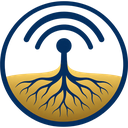
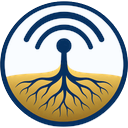
Hold the page to its light palette under forced dark mode; cap the hero
Phones running a browser's automatic dark theme were repainting the
page near-black. The site has no dark palette, and its emblem and
wordmark are navy on a transparent ground, so they disappeared into the
forced background. The pages now declare color-scheme "only light",
which is the documented opt-out from that repainting, and the header
emblem, favicons, and About lockup carry a light plate baked into the
image — invisible in light mode, and a floor for the navy when a
browser darkens the page regardless.

The hero, which took its height from the image ratio, reached 685px on
a 1900px display; it is now capped at 500px and the title at 72px.

Claude-Session: https://claude.ai/code/session_01GNcS1kmZvkTUuwnAtVXsAb

diff --git a/index.html b/index.html
@@ -1,18 +1,18 @@
 <!doctype html>
 <html lang="en">
 <head>
-  <meta charset="utf-8">
+  <meta charset="utf-8"><meta name="color-scheme" content="only light">
   <meta name="viewport" content="width=device-width,initial-scale=1">
   <meta property="og:title" content="ROOT Lab — Root of Trust from the Physical Layer"><meta property="og:image" content="https://root-jylee.github.io/assets/img/og-image.png"><meta name="description" content="ROOT Lab (보안통신 연구실), The Catholic University of Korea — Root of Trust from the Physical Layer · Physical Layer Security for Communication Systems">
   <link rel="icon" type="image/png" sizes="32x32" href="assets/img/favicon-32.png"><link rel="icon" type="image/png" sizes="64x64" href="assets/img/favicon-64.png"><link rel="apple-touch-icon" href="assets/img/apple-touch-icon.png"><title>ROOT Lab — Root of Trust from the Physical Layer</title>
-  <link rel="stylesheet" href="styles.css?v=20260908-lm11">
+  <link rel="stylesheet" href="styles.css?v=20260908-lm12">
   <style>
-    .home-hero{position:relative;overflow:hidden;background:#061629;color:#fff;padding:0;min-height:0;aspect-ratio:2079/756;display:flex;align-items:center}
+    .home-hero{position:relative;overflow:hidden;background:#061629;color:#fff;padding:0;min-height:0;aspect-ratio:2079/756;max-height:500px;display:flex;align-items:center}
     .home-hero:before{content:"";position:absolute;inset:0;background:linear-gradient(90deg,rgba(4,17,34,.97) 0%,rgba(4,17,34,.92) 21%,rgba(4,17,34,.62) 38%,rgba(4,17,34,.18) 58%,rgba(4,17,34,.03) 100%);z-index:1;mask-image:none}
     .home-hero:after{content:"";position:absolute;inset:0;background:url('assets/img/root-hero3-1920.jpg') center center/cover no-repeat;z-index:0}
     .home-hero .hero-grid{position:relative;z-index:2;width:min(1180px,calc(100% - 48px));margin:auto;display:block}
     .hero-copy{max-width:min(560px,60%);padding:clamp(24px,3.5vw,56px) 0}
-    .home-hero h1{margin:0 0 .18em;font:600 clamp(38px,5.4vw,84px)/.96 var(--serif);letter-spacing:-.055em;text-shadow:0 3px 24px rgba(0,0,0,.28)}
+    .home-hero h1{margin:0 0 .18em;font:600 clamp(38px,5vw,72px)/.96 var(--serif);letter-spacing:-.055em;text-shadow:0 3px 24px rgba(0,0,0,.28)}
     .home-hero .lab-name{margin:0;max-width:520px;color:#eef5ff;font-size:clamp(17px,2vw,30px);line-height:1.35;font-weight:650}
     .home-hero .lab-name .rootmark{color:#a8d3e2}
     .home-hero .actions{margin-top:clamp(16px,2vw,28px)}
@@ -52,7 +52,7 @@
   <section class="about-section" id="about">
     <div class="wrap">
       <div class="section-label-row"><h2 class="section-title">About · 연구실 소개</h2></div>
-      <img class="about-lockup" src="assets/img/lockup2-1200.png" alt="ROOT Lab — Root of Trust from the Physical Layer" width="520" height="140">
+      <img class="about-lockup" src="assets/img/lockup2-1200.png" alt="ROOT Lab — Root of Trust from the Physical Layer" width="560" height="169">
       <div class="about-grid">
         <div><h3>보안통신 연구실</h3><p>ROOT Lab은 가톨릭대학교 정보통신전자공학부의 보안통신 연구실로, 통신시스템의 물리계층보안(Physical Layer Security)을 연구합니다. 채널·디바이스·기하·움직임·환경이 수신 신호에 남기는 물리적·통계적 특성을 활용하여 은닉통신, 물리계층 인증, 물리계층 키 생성, 물리계층 기반 차등 프라이버시를 연구합니다.</p></div>
         <div><h3>ROOT Lab</h3><p>ROOT Lab studies how the physical and statistical structure of communication systems can be exploited or controlled to establish security. Channel randomness, device-specific impairments, geometry and mobility, interference, and channel noise all leave traces on received signals; we turn those traces into covert communication, physical-layer authentication, physical-layer key generation, and physical-layer-aided differential privacy.</p></div>

diff --git a/members.html b/members.html
@@ -1,4 +1,4 @@
-<!doctype html><html lang="en"><head><meta charset="utf-8"><meta name="viewport" content="width=device-width,initial-scale=1"><link rel="icon" type="image/png" sizes="32x32" href="assets/img/favicon-32.png"><link rel="icon" type="image/png" sizes="64x64" href="assets/img/favicon-64.png"><link rel="apple-touch-icon" href="assets/img/apple-touch-icon.png"><title>Members — ROOT Lab</title><link rel="stylesheet" href="styles.css?v=20260908-lm11"></head><body>
+<!doctype html><html lang="en"><head><meta charset="utf-8"><meta name="color-scheme" content="only light"><meta name="viewport" content="width=device-width,initial-scale=1"><link rel="icon" type="image/png" sizes="32x32" href="assets/img/favicon-32.png"><link rel="icon" type="image/png" sizes="64x64" href="assets/img/favicon-64.png"><link rel="apple-touch-icon" href="assets/img/apple-touch-icon.png"><title>Members — ROOT Lab</title><link rel="stylesheet" href="styles.css?v=20260908-lm12"></head><body>
 <header><div class="wrap nav"><a class="brand" href="index.html"><img class="mark-img" src="assets/img/emblem-128.png" alt="" width="38" height="38"><span>ROOT Lab</span></a><nav class="links"><a href="index.html">Home</a><a href="research.html">Research</a><a href="publications.html">Publications</a><a class="active" href="members.html">Members</a><a href="projects.html">Projects</a><a href="gallery.html">Gallery</a><a href="contact.html">Contact</a></nav></div></header>
 <main><div class="page-hero"><div class="wrap"><h1 class="page-title">Members</h1><p>Researchers and collaborators</p></div></div>
 <section><div class="wrap"><article class="pi-card"><div class="portrait"><img src="https://raw.githubusercontent.com/dicomm-lab/dicomm-lab.github.io/4d47364a9142f6581e8320790798c73f6509b5fd/images/PI.jpg" alt="Jinyoung Lee"></div><div><h2>Jinyoung Lee <small style="font:500 18px var(--sans);color:var(--muted)">(이진영)</small></h2><p class="pi-role">Assistant Professor · Department of Information, Communications and Electronic Engineering, The Catholic University of Korea</p><p><a style="color:var(--blue);font-weight:700" href="mailto:jylee120@catholic.ac.kr">jylee120@catholic.ac.kr</a> · <a style="color:var(--blue);font-weight:700" href="https://scholar.google.co.kr/citations?user=w1z7ySEAAAAJ&hl=en">Google Scholar</a></p><div class="pi-meta"><div><h3>Education</h3><p>Ph.D., Electrical Engineering, KAIST, 2023<br>M.S., EECS, GIST, 2018<br>B.S., Electronics & Communications Engineering, Kwangwoon University, 2016</p></div><div><h3>Professional experience</h3><p>2026– Assistant Professor, The Catholic University of Korea<br>2025–2026 Assistant Professor, National Korea Maritime &amp; Ocean University<br>2023–2025 Staff Engineer, Samsung Electronics<br>2019–2020 Visiting Researcher, Queen&rsquo;s University, Canada</p></div></div></div></article></div></section>

diff --git a/styles.css b/styles.css
@@ -3,7 +3,7 @@
 @font-face{font-family:"Latin Modern";font-style:italic;font-weight:400;font-display:swap;src:url("assets/fonts/LM-italic.woff2") format("woff2")}
 @font-face{font-family:"Latin Modern";font-style:normal;font-weight:700;font-display:swap;src:url("assets/fonts/LM-bold.woff2") format("woff2")}
 @font-face{font-family:"Latin Modern";font-style:italic;font-weight:700;font-display:swap;src:url("assets/fonts/LM-bold-italic.woff2") format("woff2")}
-:root{--ink:#10213b;--navy:#081a2c;--blue:#3f6fa8;--cyan:#8fc4d7;--lime:#b8c6d9;--paper:#f4f7fb;--muted:#65758a;--line:#dbe3ec;--white:#f9fcff;--serif:"Latin Modern",Pretendard,"Noto Sans KR","Apple SD Gothic Neo",Georgia,serif;--sans:"Latin Modern",Pretendard,"Noto Sans KR","Apple SD Gothic Neo",Georgia,serif}
+:root{color-scheme:only light;--ink:#10213b;--navy:#081a2c;--blue:#3f6fa8;--cyan:#8fc4d7;--lime:#b8c6d9;--paper:#f4f7fb;--muted:#65758a;--line:#dbe3ec;--white:#f9fcff;--serif:"Latin Modern",Pretendard,"Noto Sans KR","Apple SD Gothic Neo",Georgia,serif;--sans:"Latin Modern",Pretendard,"Noto Sans KR","Apple SD Gothic Neo",Georgia,serif}
 *{box-sizing:border-box}html{scroll-behavior:smooth}body{display:flex;min-height:100vh;margin:0;flex-direction:column;color:var(--ink);font-family:var(--sans);background:var(--white);line-height:1.65}main{flex:1}a{color:inherit;text-decoration:none}.wrap{width:min(1180px,calc(100% - 48px));margin:auto}.topline{height:4px;background:linear-gradient(90deg,var(--blue),var(--cyan) 45%,var(--lime))}
 header{position:sticky;top:0;z-index:20;background:rgba(249,252,255,.95);backdrop-filter:blur(14px);border-bottom:1px solid rgba(11,25,48,.08)}.nav{min-height:76px;display:flex;align-items:center;justify-content:space-between;gap:28px}.brand{display:flex;align-items:center;gap:12px;font-weight:800;letter-spacing:-.03em}.mark{display:grid;place-items:center;width:38px;height:38px;border-radius:11px;background:var(--navy);color:var(--cyan);font:600 20px var(--serif)}.brand small{display:block;color:var(--muted);font-size:10px;letter-spacing:.12em;text-transform:uppercase}
 .brand-at{color:var(--muted);font-weight:700;letter-spacing:-.02em}.links{display:flex;gap:25px;font-size:14px;font-weight:700}.links a{padding:28px 0 24px;border-bottom:3px solid transparent}.links a:hover,.links a.active{color:var(--blue);border-bottom-color:var(--blue)}
@@ -272,3 +272,4 @@ section{padding:70px 0}
 header .wrap{width:calc(100% - 64px);max-width:none}
 @media(max-width:900px){header .wrap{width:calc(100% - 32px)}}
 
+.about-lockup{width:min(560px,100%)}

diff --git a/contact.html b/contact.html
@@ -1,4 +1,4 @@
-<!doctype html><html lang="en"><head><meta charset="utf-8"><meta name="viewport" content="width=device-width,initial-scale=1"><link rel="icon" type="image/png" sizes="32x32" href="assets/img/favicon-32.png"><link rel="icon" type="image/png" sizes="64x64" href="assets/img/favicon-64.png"><link rel="apple-touch-icon" href="assets/img/apple-touch-icon.png"><title>Contact — ROOT Lab</title><link rel="stylesheet" href="styles.css?v=20260908-lm11"></head><body>
+<!doctype html><html lang="en"><head><meta charset="utf-8"><meta name="color-scheme" content="only light"><meta name="viewport" content="width=device-width,initial-scale=1"><link rel="icon" type="image/png" sizes="32x32" href="assets/img/favicon-32.png"><link rel="icon" type="image/png" sizes="64x64" href="assets/img/favicon-64.png"><link rel="apple-touch-icon" href="assets/img/apple-touch-icon.png"><title>Contact — ROOT Lab</title><link rel="stylesheet" href="styles.css?v=20260908-lm12"></head><body>
 <header><div class="wrap nav"><a class="brand" href="index.html"><img class="mark-img" src="assets/img/emblem-128.png" alt="" width="38" height="38"><span>ROOT Lab</span></a><nav class="links"><a href="index.html">Home</a><a href="research.html">Research</a><a href="publications.html">Publications</a><a href="members.html">Members</a><a href="projects.html">Projects</a><a href="gallery.html">Gallery</a><a class="active" href="contact.html">Contact</a></nav></div></header>
 <main><div class="page-hero"><div class="wrap"><h1 class="page-title">Contact</h1><p>Location and contact information</p></div></div>
 <section><div class="wrap contact-grid"><article class="contact-card"><div class="kicker">Laboratory</div><h2>ROOT Lab</h2><p>보안통신 연구실 · Physical Layer Security for Communication Systems</p><p>Department of Information, Communications and Electronic Engineering<br>The Catholic University of Korea<br>Michael Hall T710<br>43 Jibong-ro, Wonmi-gu<br>Bucheon 14662, Gyeonggi-do, Korea</p></article><article class="contact-card"><div class="kicker">Principal investigator</div><h2>Jinyoung Lee</h2><p class="contact-role">Assistant Professor</p><p>Office: Michael Hall T710<br>Phone: <a href="tel:+82221644877">+82-2-2164-4877</a></p><p>Email: <a href="mailto:jylee120@catholic.ac.kr">jylee120@catholic.ac.kr</a></p><div class="link-list"><a href="https://scholar.google.co.kr/citations?user=w1z7ySEAAAAJ&hl=en">Google Scholar ↗</a><a href="https://www.linkedin.com/in/jinyoung-lee-97b994215">LinkedIn ↗</a></div></article></div></section>

diff --git a/404.html b/404.html
@@ -1,4 +1,4 @@
-<!doctype html><html lang="en"><head><meta charset="utf-8"><meta name="viewport" content="width=device-width,initial-scale=1"><link rel="icon" type="image/png" sizes="32x32" href="/assets/img/favicon-32.png"><link rel="icon" type="image/png" sizes="64x64" href="/assets/img/favicon-64.png"><link rel="apple-touch-icon" href="/assets/img/apple-touch-icon.png"><title>Page not found — ROOT Lab</title><link rel="stylesheet" href="/styles.css?v=20260908-lm11"></head><body>
+<!doctype html><html lang="en"><head><meta charset="utf-8"><meta name="color-scheme" content="only light"><meta name="viewport" content="width=device-width,initial-scale=1"><link rel="icon" type="image/png" sizes="32x32" href="/assets/img/favicon-32.png"><link rel="icon" type="image/png" sizes="64x64" href="/assets/img/favicon-64.png"><link rel="apple-touch-icon" href="/assets/img/apple-touch-icon.png"><title>Page not found — ROOT Lab</title><link rel="stylesheet" href="/styles.css?v=20260908-lm12"></head><body>
 <header><div class="wrap nav"><a class="brand" href="/index.html"><img class="mark-img" src="/assets/img/emblem-128.png" alt="" width="38" height="38"><span>ROOT Lab</span></a><nav class="links"><a href="/index.html">Home</a><a href="/research.html">Research</a><a href="/publications.html">Publications</a><a href="/members.html">Members</a><a href="/projects.html">Projects</a><a href="/gallery.html">Gallery</a><a href="/contact.html">Contact</a></nav></div></header>
 <main><div class="page-hero"><div class="wrap"><h1 class="page-title">Page not found</h1><p>The page you requested does not exist or has moved.</p></div></div>
 <section><div class="wrap"><p>Continue to one of the pages below, or return to the <a class="paper-link" href="/index.html">home page</a>.</p><div class="link-list"><a href="/index.html">Home</a><a href="/research.html">Research</a><a href="/publications.html">Publications</a><a href="/members.html">Members</a><a href="/projects.html">Projects</a><a href="/contact.html">Contact</a></div></div></section></main>

diff --git a/projects.html b/projects.html
@@ -1,4 +1,4 @@
-<!doctype html><html lang="en"><head><meta charset="utf-8"><meta name="viewport" content="width=device-width,initial-scale=1"><link rel="icon" type="image/png" sizes="32x32" href="assets/img/favicon-32.png"><link rel="icon" type="image/png" sizes="64x64" href="assets/img/favicon-64.png"><link rel="apple-touch-icon" href="assets/img/apple-touch-icon.png"><title>Projects — ROOT Lab</title><link rel="stylesheet" href="styles.css?v=20260908-lm11"></head><body>
+<!doctype html><html lang="en"><head><meta charset="utf-8"><meta name="color-scheme" content="only light"><meta name="viewport" content="width=device-width,initial-scale=1"><link rel="icon" type="image/png" sizes="32x32" href="assets/img/favicon-32.png"><link rel="icon" type="image/png" sizes="64x64" href="assets/img/favicon-64.png"><link rel="apple-touch-icon" href="assets/img/apple-touch-icon.png"><title>Projects — ROOT Lab</title><link rel="stylesheet" href="styles.css?v=20260908-lm12"></head><body>
 <header><div class="wrap nav"><a class="brand" href="index.html"><img class="mark-img" src="assets/img/emblem-128.png" alt="" width="38" height="38"><span>ROOT Lab</span></a><nav class="links"><a href="index.html">Home</a><a href="research.html">Research</a><a href="publications.html">Publications</a><a href="members.html">Members</a><a class="active" href="projects.html">Projects</a><a href="gallery.html">Gallery</a><a href="contact.html">Contact</a></nav></div></header>
 <main><div class="page-hero"><div class="wrap"><h1 class="page-title">Projects</h1><p>Funded research projects</p></div></div>
 <section class="project-section"><div class="wrap"><ol class="project-list"><li class="project-item"><div class="project-date"><b>NRF</b><span>2026–2030</span></div><div class="project-copy"><h2>Self-Evolving Covert Distributed AI Networks Based on Sensing, Communication, and Computation Convergence</h2><p>National Research Foundation of Korea · March 2026 – February 2030</p></div></li></ol></div></section></main>

diff --git a/publications.html b/publications.html
@@ -1,4 +1,4 @@
-<!doctype html><html lang="en"><head><meta charset="utf-8"><meta name="viewport" content="width=device-width,initial-scale=1"><link rel="icon" type="image/png" sizes="32x32" href="assets/img/favicon-32.png"><link rel="icon" type="image/png" sizes="64x64" href="assets/img/favicon-64.png"><link rel="apple-touch-icon" href="assets/img/apple-touch-icon.png"><title>Publications — ROOT Lab</title><link rel="stylesheet" href="styles.css?v=20260908-lm11"></head><body>
+<!doctype html><html lang="en"><head><meta charset="utf-8"><meta name="color-scheme" content="only light"><meta name="viewport" content="width=device-width,initial-scale=1"><link rel="icon" type="image/png" sizes="32x32" href="assets/img/favicon-32.png"><link rel="icon" type="image/png" sizes="64x64" href="assets/img/favicon-64.png"><link rel="apple-touch-icon" href="assets/img/apple-touch-icon.png"><title>Publications — ROOT Lab</title><link rel="stylesheet" href="styles.css?v=20260908-lm12"></head><body>
 <header><div class="wrap nav"><a class="brand" href="index.html"><img class="mark-img" src="assets/img/emblem-128.png" alt="" width="38" height="38"><span>ROOT Lab</span></a><nav class="links"><a href="index.html">Home</a><a href="research.html">Research</a><a class="active" href="publications.html">Publications</a><a href="members.html">Members</a><a href="projects.html">Projects</a><a href="gallery.html">Gallery</a><a href="contact.html">Contact</a></nav></div></header>
 <main><div class="page-hero"><div class="wrap"><h1 class="page-title">Publications</h1><p>Journal papers, conference papers, and patents</p></div></div><div class="wrap">
 <section class="pub-section"><div class="kicker">In progress</div><h2>Manuscripts under review</h2><ol class="pub-list"><li><strong>J. Lee</strong>, H. D. Nguyen, H. Joe, G. Heo, and J. Ha, “Toward Awareness-Driven Covert ISAC: An Agentic AI Framework Beyond Fixed Tradeoff Boundaries,” submitted to <em>IEEE Wireless Communications Magazine</em>.</li>

diff --git a/gallery.html b/gallery.html
@@ -1,4 +1,4 @@
-<!doctype html><html lang="en"><head><meta charset="utf-8"><meta name="viewport" content="width=device-width,initial-scale=1"><link rel="icon" type="image/png" sizes="32x32" href="assets/img/favicon-32.png"><link rel="icon" type="image/png" sizes="64x64" href="assets/img/favicon-64.png"><link rel="apple-touch-icon" href="assets/img/apple-touch-icon.png"><title>Gallery — ROOT Lab</title><link rel="stylesheet" href="styles.css?v=20260908-lm11"></head><body>
+<!doctype html><html lang="en"><head><meta charset="utf-8"><meta name="color-scheme" content="only light"><meta name="viewport" content="width=device-width,initial-scale=1"><link rel="icon" type="image/png" sizes="32x32" href="assets/img/favicon-32.png"><link rel="icon" type="image/png" sizes="64x64" href="assets/img/favicon-64.png"><link rel="apple-touch-icon" href="assets/img/apple-touch-icon.png"><title>Gallery — ROOT Lab</title><link rel="stylesheet" href="styles.css?v=20260908-lm12"></head><body>
 <header><div class="wrap nav"><a class="brand" href="index.html"><img class="mark-img" src="assets/img/emblem-128.png" alt="" width="38" height="38"><span>ROOT Lab</span></a><nav class="links"><a href="index.html">Home</a><a href="research.html">Research</a><a href="publications.html">Publications</a><a href="members.html">Members</a><a href="projects.html">Projects</a><a class="active" href="gallery.html">Gallery</a><a href="contact.html">Contact</a></nav></div></header>
 <main><div class="page-hero"><div class="wrap"><h1 class="page-title">Gallery</h1><p>Lab life, seminars, and conference travel</p></div></div>
 <section><div class="wrap">

diff --git a/research.html b/research.html
@@ -1,11 +1,11 @@
 <!doctype html>
 <html lang="en">
 <head>
-  <meta charset="utf-8">
+  <meta charset="utf-8"><meta name="color-scheme" content="only light">
   <meta name="viewport" content="width=device-width,initial-scale=1">
   <meta name="description" content="ROOT Lab research scope and detailed physical-layer security architectures">
   <link rel="icon" type="image/png" sizes="32x32" href="assets/img/favicon-32.png"><link rel="icon" type="image/png" sizes="64x64" href="assets/img/favicon-64.png"><link rel="apple-touch-icon" href="assets/img/apple-touch-icon.png"><title>Research — ROOT Lab</title>
-  <link rel="stylesheet" href="styles.css?v=20260908-lm11">
+  <link rel="stylesheet" href="styles.css?v=20260908-lm12">
 </head>
 <body>
 
